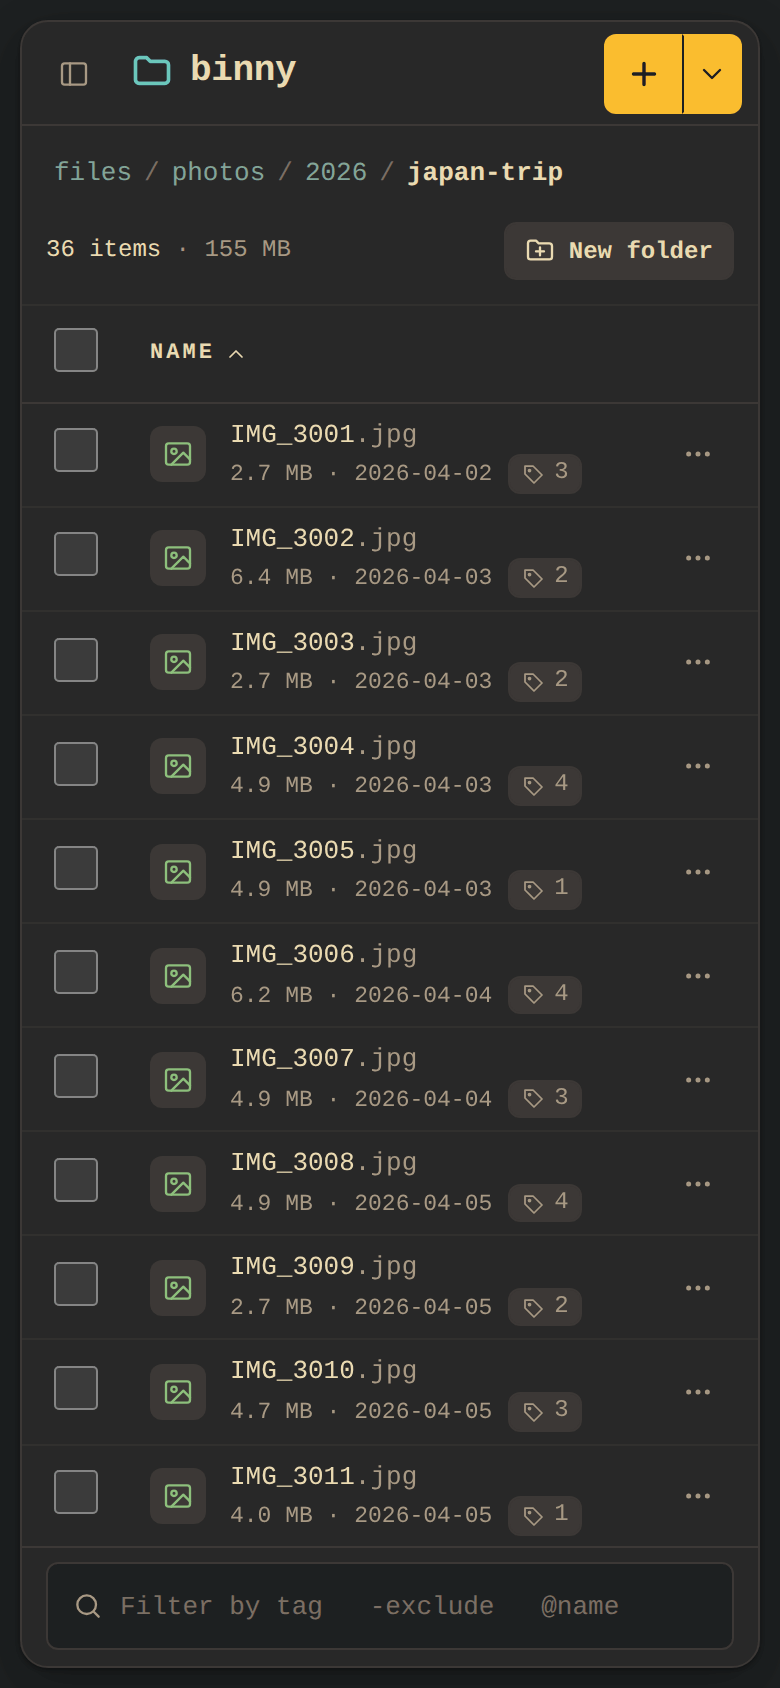
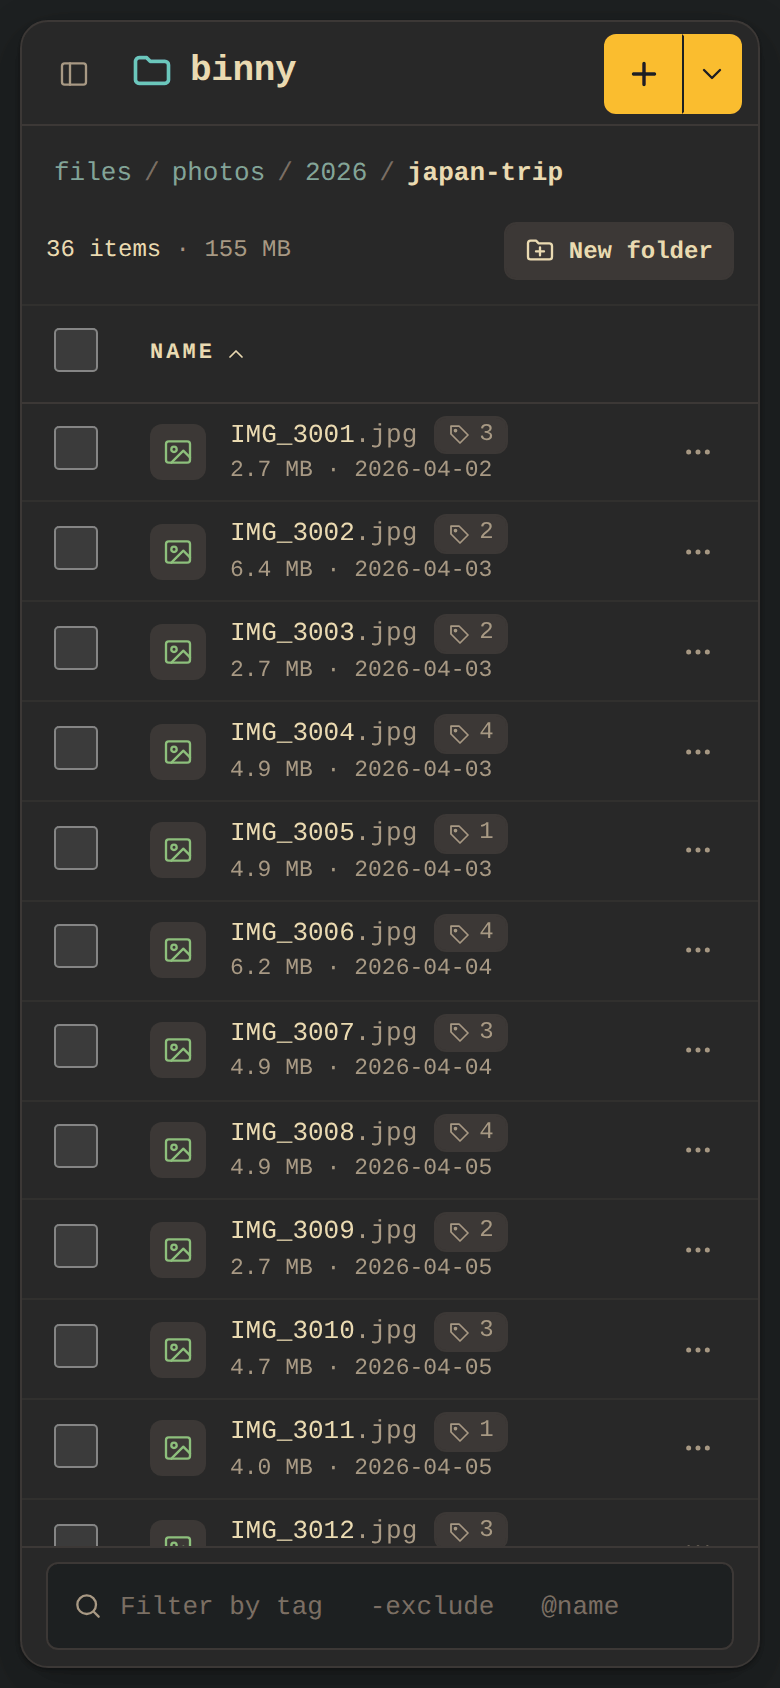
Remove the Tags column; show the tag count beside the name
The tag chips took a column of the file list. The list now shows only how
many tags an item has, as a button right after its name that opens the tag
editor (hovering lists them), which also frees the room on phones. README
screenshots retaken.

Claude-Session: https://claude.ai/code/session_01Cb3afPY72Cc7pxDSGxERfP

diff --git a/binny/static/css/style.css b/binny/static/css/style.css
@@ -264,14 +264,13 @@ button.twisty:hover { background: var(--border); color: var(--fg); }
 .tag-count { display: inline-flex; align-items: center; gap: 4px; padding: 1px 8px; border: 1px solid var(--border); border-radius: var(--radius-sm); background: var(--bg-inset); color: var(--fg-muted); font-family: var(--font-mono); font-size: 12px; font-variant-numeric: tabular-nums; transition: color 120ms ease, border-color 120ms ease; }
 .tag-count:hover { border-color: var(--accent-text); color: var(--accent-text); }
 .tag-count .i { width: 12px; height: 12px; }
-.meta .tag-count { margin-left: var(--app-space-3); padding-inline: 6px; line-height: 1.3; vertical-align: middle; }
-.col-tags { width: 1%; white-space: nowrap; }
+.name-line { display: flex; align-items: center; gap: var(--app-space-3); min-width: 0; }
+.name-line .tag-count { flex: none; padding-inline: 6px; line-height: 1.3; }
 /* max-width: 0 keeps a long name or tag from widening the table past the screen; it shortens instead. */
 .files td:has(> .name) { width: 70%; max-width: 0; }
 @media (min-width: 761px) {
     #trashList td:has(> .name) { width: 45%; } /* room for where each came from */
 }
-.files--no-tags .col-tags { display: none; }
 a.cc-tag, button.cc-tag { line-height: 1.3; text-decoration: none; transition: color 120ms ease, border-color 120ms ease; }
 a.cc-tag:hover, button.cc-tag:hover { border-color: var(--accent-text); color: var(--accent-text); }
 .ficon { flex: none; display: grid; place-items: center; width: 28px; height: 28px; border-radius: var(--radius-sm); background: var(--bg-inset); color: var(--fg-muted); }
@@ -429,7 +428,7 @@ input[type="checkbox"] { accent-color: var(--accent); width: 15px; height: 15px;
     /* A roomy checkbox cell, so a tap near it toggles the row instead of missing. */
     .chk { width: 52px; min-width: 52px; }
     .chk input { width: 22px; height: 22px; }
-    .col-size, .col-mod, .col-tags { display: none; }
+    .col-size, .col-mod { display: none; }
     .files td:has(> .name) { width: 100%; }
     .meta { display: block; }
     .acts { opacity: 1; }

diff --git a/binny/static/js/explorer.js b/binny/static/js/explorer.js
@@ -115,9 +115,8 @@ function row(item) {
         <td class="chk"><input type="checkbox" aria-label="Select ${esc(item.name)}"></td>
         <td><div class="name">
             <span class="ficon ${item.kind}">${icon(item.kind)}</span>
-            <div class="name-text"><a class="fname" ${link}>${esc(stem)}<span class="ext">${esc(ext)}</span></a>${where}<div class="meta">${sizeLabel(item)} · ${date}${tagCount(item)}</div></div>
+            <div class="name-text"><div class="name-line"><a class="fname" ${link}>${esc(stem)}<span class="ext">${esc(ext)}</span></a>${tagCount(item)}</div>${where}<div class="meta">${sizeLabel(item)} · ${date}</div></div>
         </div></td>
-        <td class="col-tags">${tagCount(item)}</td>
         <td class="num r col-size">${sizeLabel(item)}</td>
         <td class="num col-mod" title="${esc(new Date(item.mtime * 1000).toLocaleString())}">${date}</td>
         <td><div class="acts">${menuButton}</div></td>
@@ -168,10 +167,10 @@ function render() {
         ? `<div class="empty">${icon('search')}<p>Nothing matches.</p></div>`
         : `<div class="empty">${icon('folder')}<p>This folder is empty.</p><p>Drop files here, or upload them with <b>+</b>.</p></div>`;
     $('list').innerHTML = items.length
-        ? `<table class="files${items.some((item) => item.tags.length) ? '' : ' files--no-tags'}">
+        ? `<table class="files">
             <thead><tr>
                 <th class="chk"><input type="checkbox" aria-label="Select all"></th>
-                ${heading('name')}<th class="col-tags">Tags</th>${heading('size', 'r col-size')}${heading('mtime', 'col-mod')}<th></th>
+                ${heading('name')}${heading('size', 'r col-size')}${heading('mtime', 'col-mod')}<th></th>
             </tr></thead>
             <tbody>${items.map(row).join('')}</tbody>
         </table>`

diff --git a/README.md b/README.md
@@ -73,7 +73,7 @@ upload from link still in progress, so let those finish first.
 
 Binny fits a phone: the folder tree and tags move into a drawer that covers the screen (an X closes
 it), along with the theme switch and sign-out, search moves to a bar along the bottom, within
-thumb's reach, and each file's size, date and number of tags sit under its name.
+thumb's reach, and each file's size and date sit under its name, beside its number of tags.
 
 <p align="center">
   <img src="assets/phone-folder.png" alt="A folder on a phone" width="30%">
